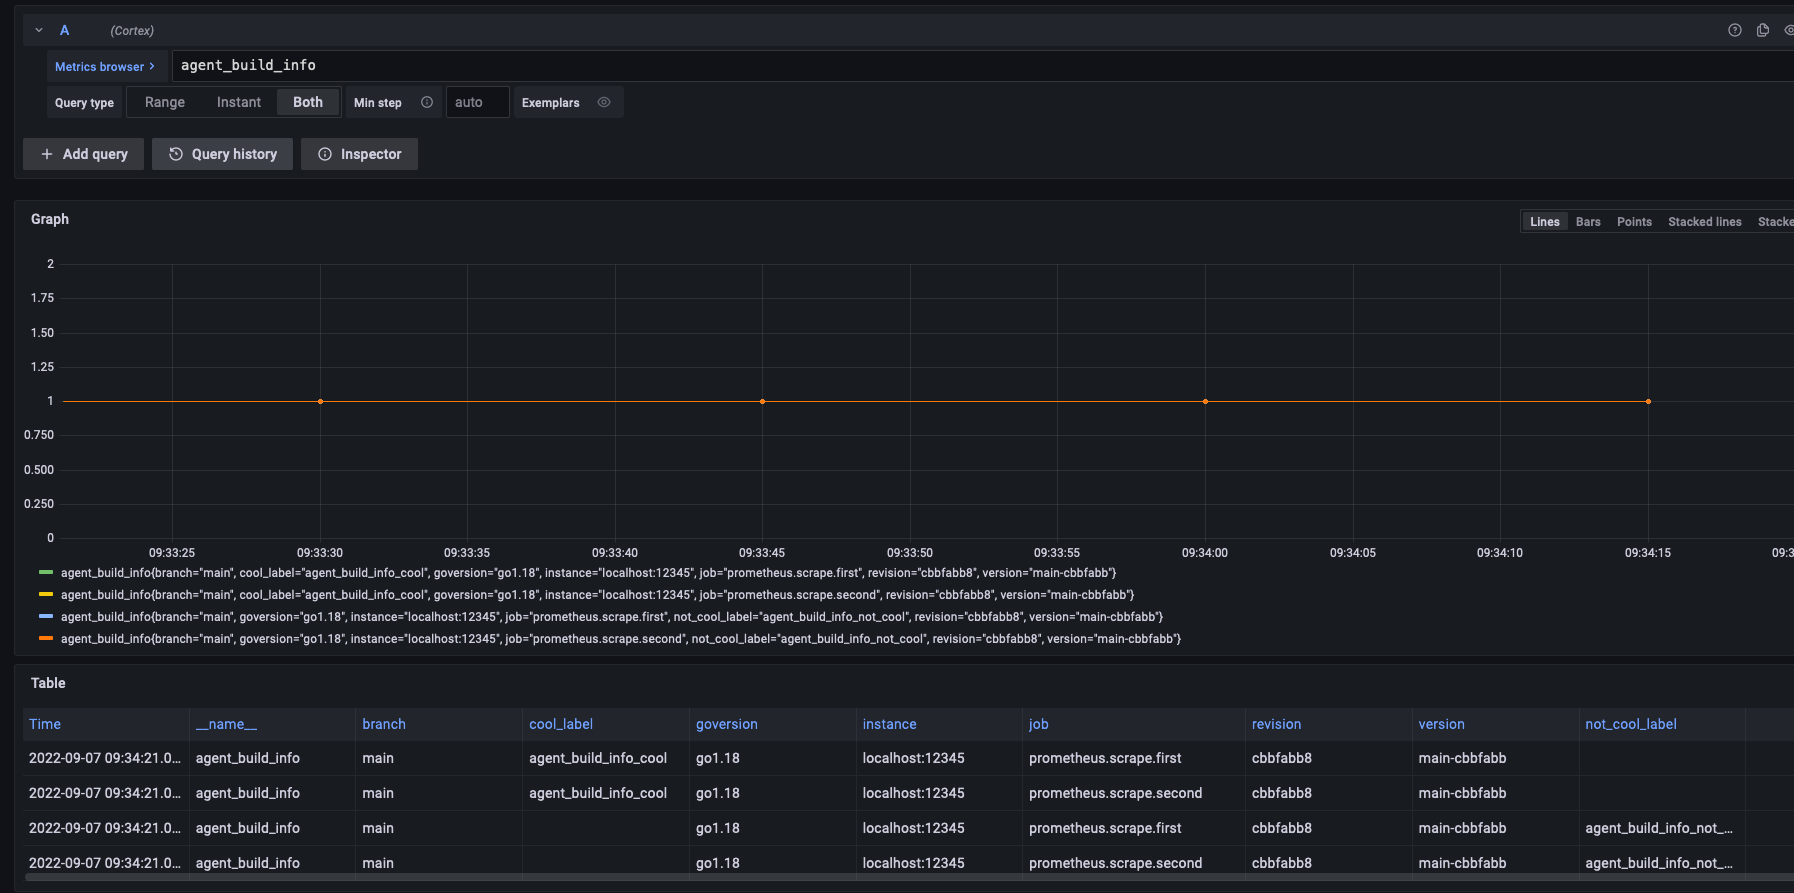
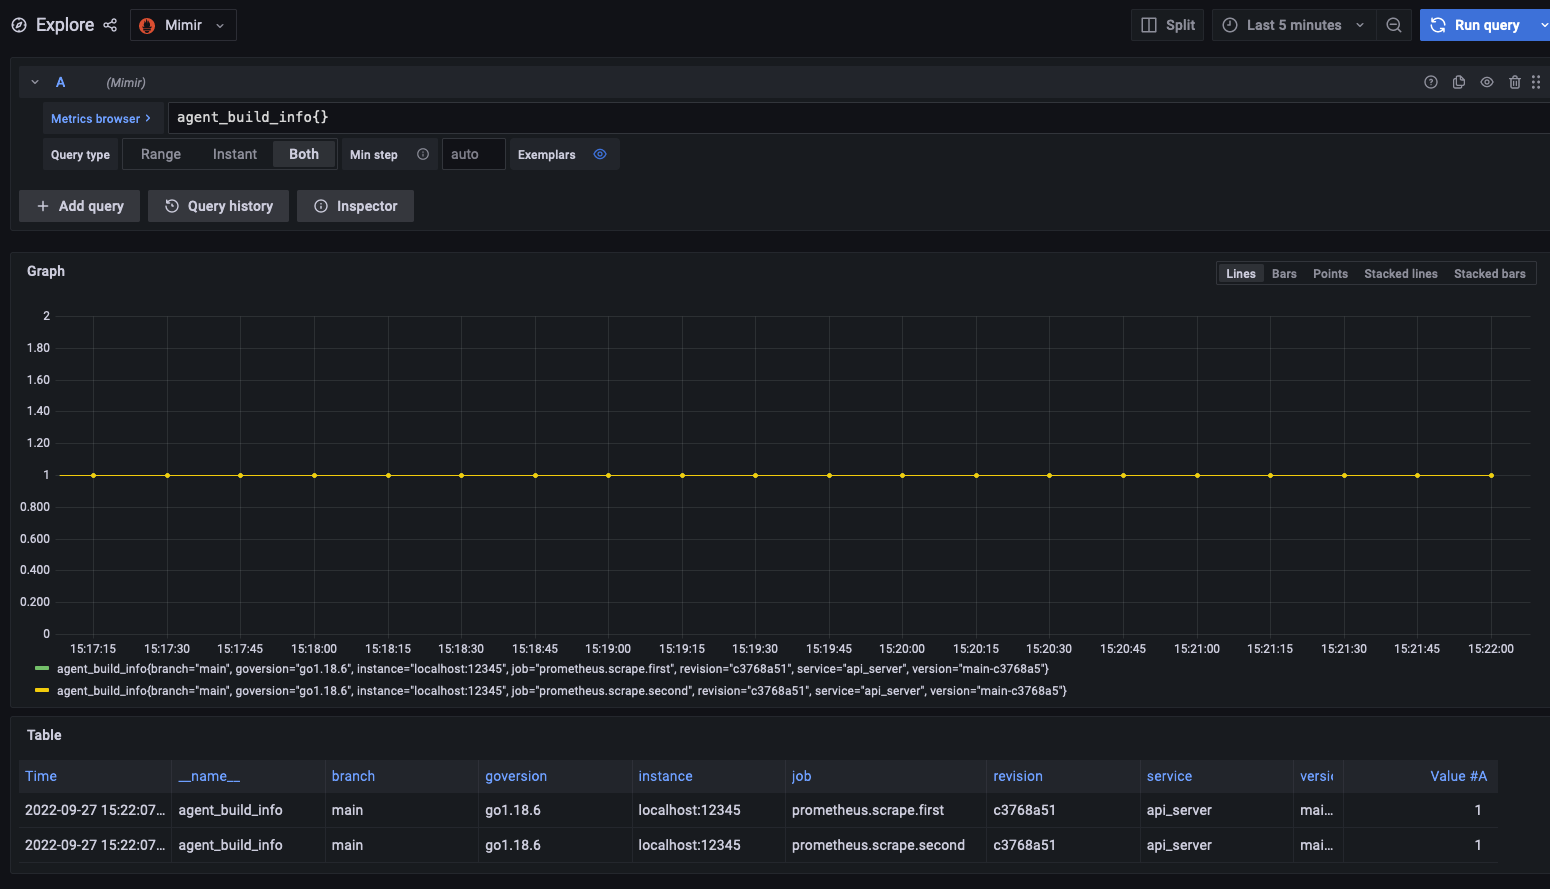
Update tutorial (#2225)
* add verbiage around using the script

* clean up images

* Update relabel.flow

* update graph

* Update docs/sources/flow/tutorials/collecting-prometheus-metrics.md

* Update docs/sources/flow/tutorials/collecting-prometheus-metrics.md

* pr feedback

* fix shellshock issue

* add example for blog

diff --git a/docs/sources/flow/tutorials/chaining.md b/docs/sources/flow/tutorials/chaining.md
@@ -5,65 +5,60 @@ title: Chaining Prometheus components
 weight: 400
 ---
 
+# Chaining Prometheus components
+
 This tutorial shows how to use [multiple-inputs.flow](../assets/flow_configs/multiple-inputs.flow) to send data to several different locations. This tutorial uses the same base as [Filtering metrics]({{< relref "filtering-metrics.md">}}). 
 
 A new concept introduced in Flow is chaining components together in a composable pipeline. This promotes the reusability of components while offering flexibility. 
 
-# Prerequisites
+## Prerequisites
 
 * [Docker](https://www.docker.com/products/docker-desktop)
-* Clone the [Agent Repository](https://github.com/grafana/agent) 
-    * `git clone git@github.com:grafana/agent.git`
 
-## Example
+## Run the example
 
-To run the example, execute `CONFIG_FILE=multiple-inputs.flow docker-compose -f ./assets/docker-compose.yaml up` from the tutorials directory. 
+Run the following `curl https://raw.githubusercontent.com/grafana/agent/main/docs/sources/flow/tutorials/assets/runt.sh -O && bash ./runt.sh multiple-inputs.flow`.
 
-Allow the Agent to run for two minutes, then go to [Grafana](http://localhost:3000/explore?orgId=1&left=%5B%22now-1h%22,%22now%22,%22Mimir%22,%7B%22refId%22:%22A%22,%22instant%22:true,%22range%22:true,%22exemplar%22:true,%22expr%22:%22agent_build_info%7B%7D%22%7D%5D).
+The `runt.sh` script does:
+
+1. Downloads the configs necessary for Mimir, Grafana and the Grafana Agent. 
+2. Downloads the docker image for Grafana Agent explicitly.
+3. Runs the docker-compose up command to bring all the services up.
+
+Allow the Grafana Agent to run for two minutes, then navigate to [Grafana](http://localhost:3000/explore?orgId=1&left=%5B%22now-1h%22,%22now%22,%22Mimir%22,%7B%22refId%22:%22A%22,%22instant%22:true,%22range%22:true,%22exemplar%22:true,%22expr%22:%22agent_build_info%7B%7D%22%7D%5D).
 
 ![](../assets/multiple.png)
 
-There are two scrapes each sending two metrics to both filters, so you end up with a total of four metrics. They differ in `job` and `cool_label/not_cool_label`.
+There are two scrapes each sending metrics to one filter. Note the `job` label lists the full name of the scrape component.
 
 ## Multiple outputs
 
 ```river
 prometheus.scrape "first" {
 	targets    = [{"__address__" = "localhost:12345"}]
-	forward_to = [prometheus.relabel.cool.receiver, prometheus.relabel.not_cool.receiver]
+	forward_to = [prometheus.relabel.service.receiver]
+}
+
+prometheus.scrape "second" {
+	targets    = [{"__address__" = "localhost:12345"}]
+	forward_to = [prometheus.relabel.service.receiver]
+}
+
+prometheus.relabel "service" {
+	rule {
+		source_labels = ["__name__"]
+		regex         = "(.+)"
+		replacement   = "service"
+		target_label  = "api_server"
+	}
+	forward_to = [prometheus.remote_write.prom.receiver]
 }
 ```
 
-In the above Flow block, `forward_to` accepts an array of receivers. In previous examples, a single receiver was used, but the use of multiple inputs and outputs is a basic building block of Flow. In the above example, `prometheus.scrape.first` is sending to both `prometheus.relabel.filter` and `prometheus.relabel.not_cool`. 
+In the above Flow block, `prometheus.relabel.service` is being forwarded metrics from two sources `prometheus.scrape.first` and `prometheus.scrape.second`. This allows for a single relabel component to be used with any number of inputs.
 
-## Multiple inputs
+## Adding another relabel
 
-```river
-prometheus.relabel "cool" {
-    rule {
-        source_labels = ["__name__"]
-        regex = "(.+)"
-        replacement = "${1}_cool"
-        target_label = "cool_label"
-    }
-    forward_to = [prometheus.remote_write.prom.receiver]
-}
+In `multiple-input.flow` add a new `prometheus.relabel` component that adds a `version` label with the value of `v2` to all metrics after the `prometheus.relabel.service`.
 
-prometheus.relabel "not_cool" {
-    rule {
-        source_labels = ["__name__"]
-        regex = "(.+)"
-        replacement = "${1}_not_cool"
-        target_label = "not_cool_label"
-    }
-    forward_to = [prometheus.remote_write.prom.receiver]
-}
-
-prometheus.remote_write "prom" {
-    endpoint {
-        url = "http://mimir:9009/api/v1/push"
-    }
-}
-```
-
-In the above Flow blocks, `prometheus.remote_write.prom` receives input from both `prometheus.relabel.cool` and `prometheus.relabel.not_cool`. 
+![](../assets/scrape_v2.png)

diff --git a/docs/sources/flow/tutorials/filtering-metrics.md b/docs/sources/flow/tutorials/filtering-metrics.md
@@ -5,21 +5,37 @@ title: Filtering Prometheus metrics
 weight: 300
 ---
 
+# Filtering Prometheus metrics
+
 In this tutorial, you'll add a new component [prometheus.relabel]({{< ref "prometheus.relabel.md" >}}) using [relabel.flow](../assets/flow_configs/relabel.flow) to filter metrics. This tutorial uses the same base as [Collecting Prometheus metrics]({{< relref "./collecting-prometheus-metrics.md">}}).
 
-# Prerequisites
+## Prerequisites
 
 * [Docker](https://www.docker.com/products/docker-desktop)
-* Clone the [Agent Repository](https://github.com/grafana/agent) `git clone git@github.com:grafana/agent.git`
 
-# Prometheus Relabel component
+## Run the example
 
-The `prometheus.relabel` component is used to drop, add, or filter metrics.  To quickly spin up an example environment, run the following: `CONFIG_FILE=relabel.flow docker-compose -f ./assets/docker-compose.yaml up` from the `tutorials` directory.
+The `prometheus.relabel` component is used to drop, add, or filter metrics.  Run the following: `curl https://raw.githubusercontent.com/grafana/agent/main/docs/sources/flow/tutorials/assets/runt.sh -O && bash ./runt.sh relabel.flow`.
 
-Wait two minutes to ensure the scrape is complete, then visit the [Grafana](http://localhost:3000/explore?orgId=1&left=%5B%22now-1h%22,%22now%22,%22Mimir%22,%7B%22refId%22:%22A%22,%22instant%22:true,%22range%22:true,%22exemplar%22:true,%22expr%22:%22agent_build_info%7B%7D%22%7D%5D) page and the `cool_label` will be there.
+The `runt.sh` script does:
+
+1. Downloads the configs necessary for Mimir, Grafana and the Grafana Agent. 
+2. Downloads the docker image for Grafana Agent explicitly.
+3. Runs the docker-compose up command to bring all the services up.
+
+
+Allow the Grafana Agent to run for two minutes, then navigate to [Grafana](http://localhost:3000/explore?orgId=1&left=%5B%22now-1h%22,%22now%22,%22Mimir%22,%7B%22refId%22:%22A%22,%22instant%22:true,%22range%22:true,%22exemplar%22:true,%22expr%22:%22agent_build_info%7B%7D%22%7D%5D) page and the `service` label will be there with the `api_server` value.
 
 ![](../assets/filter.png)
 
-# What's happening?
+## What's happening?
 
-The scraper is sending the metrics to the filter which is then sending metrics to the remote_write. 
+1. The Prometheus scraper is sending the metrics to the filter.
+1. The filter is adding a new label named `service` with the value `api_server`.
+1. The filter is then sending metrics to the remote_write endpoint. 
+
+## Update the service value
+
+Open the `relabel.flow` file that was downloaded and change the name of the service to `api_server_v2`, then run `bash ./runt.sh relabel.flow`. Allow the Grafana Agent to run for two minutes, then navigate to [Grafana](http://localhost:3000/explore?orgId=1&left=%5B%22now-1h%22,%22now%22,%22Mimir%22,%7B%22refId%22:%22A%22,%22instant%22:true,%22range%22:true,%22exemplar%22:true,%22expr%22:%22agent_build_info%7B%7D%22%7D%5D) page, and the new label will be updated. The old value `api_server` may still show up in the graph but hovering over the lines will show that that value stopped being scraped and was replaced with `api_server_v2`.
+
+![](../assets/transition.png)

diff --git a/docs/sources/flow/tutorials/collecting-prometheus-metrics.md b/docs/sources/flow/tutorials/collecting-prometheus-metrics.md
@@ -5,21 +5,37 @@ title: Collecting Prometheus metrics
 weight: 200
 ---
 
+# Collecting Prometheus metrics
+
 Grafana Agent is a telemetry collector with the primary goal of moving telemetry data from one location to another. In this tutorial, you'll set up a Grafana Agent in Flow mode.
 
-# Prerequisites
+## Prerequisites
 
 * [Docker](https://www.docker.com/products/docker-desktop)
-* Clone the [Agent Repository](https://github.com/grafana/agent) `git clone git@github.com:grafana/agent.git`
 
-# Scraping the Agent
+## Run the example
 
-To quickly spin up an example environment, run the following: `CONFIG_FILE=agent.flow docker-compose -f ./assets/docker-compose.yaml up` with the [flow file](../assets/flow_configs/agent.flow). Allow the service to run for a few minutes, then navigate to the [metrics browser](http://localhost:3000/explore?orgId=1&left=%5B%22now-1h%22,%22now%22,%22Mimir%22,%7B%22refId%22:%22A%22,%22instant%22:true,%22range%22:true,%22exemplar%22:true,%22expr%22:%22agent_build_info%7B%7D%22%7D%5D).
+Run the following `curl https://raw.githubusercontent.com/grafana/agent/main/docs/sources/flow/tutorials/assets/runt.sh -O && bash ./runt.sh agent.flow`. 
+
+The `runt.sh` script does:
+
+1. Downloads the configs necessary for Mimir, Grafana and the Grafana Agent. 
+2. Downloads the docker image for Grafana Agent explicitly.
+3. Runs the docker-compose up command to bring all the services up.
+
+Allow the Grafana Agent to run for two minutes, then navigate to [Grafana](http://localhost:3000/explore?orgId=1&left=%5B%22now-1h%22,%22now%22,%22Mimir%22,%7B%22refId%22:%22A%22,%22instant%22:true,%22range%22:true,%22exemplar%22:true,%22expr%22:%22agent_build_info%7B%7D%22%7D%5D). 
 
 ![](../assets/agent_build_info.png)
 
 This example scrapes the Grafana Agent's `http://localhost:12345/metrics` endpoint and pushes those metrics to the Mimir instance.
 
+Navigate to `http://localhost:12345/graph` to view the Grafana Agent Flow UI. 
+
+![](../assets/graph.png)
+The Agent displays the component pipeline in a dependency graph.  See [Scraping component](#scraping-component) and [Remote Write component](#remote-write-component) for details about the components used in this configuration. 
+Click the nodes to navigate to the associated component page. There, you can view the state, health information, and, if applicable, the debug information.
+
+![](../assets/comp_info.png)
 
 ## Scraping component
 
